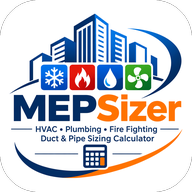
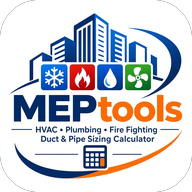
Add files via upload

diff --git a/index.html b/index.html
@@ -2,13 +2,13 @@
 <html lang="en">
 <head>
 <meta charset="utf-8">
-<title>MEP Sizer</title>
+<title>MEPtools</title>
 <meta name="viewport" content="width=device-width, initial-scale=1, viewport-fit=cover">
 <meta name="theme-color" content="#0E2A3A">
 <meta name="color-scheme" content="light dark">
 <meta name="mobile-web-app-capable" content="yes">
 <meta name="apple-mobile-web-app-capable" content="yes">
-<meta name="apple-mobile-web-app-title" content="MEP Sizer">
+<meta name="apple-mobile-web-app-title" content="MEPtools">
 <link rel="manifest" href="./manifest.json">
 <link rel="preload" as="font" type="font/woff2" href="./fonts/great-vibes-latin-400-normal.woff2" crossorigin>
 <link rel="preload" as="font" type="font/woff2" href="./fonts/outfit-latin-600-normal.woff2" crossorigin>
@@ -203,7 +203,7 @@ footer.ft{display:flex;justify-content:space-between;color:var(--ink2);font-size
 </script>
 <div class="wrap">
   <header class="top">
-    <h1>MEP Sizer</h1>
+    <h1>MEPtools</h1>
     <div class="menu">
       <button id="m-units" type="button" aria-label="Switch units"></button>
       <button id="m-clear" type="button">Clear</button>
@@ -234,7 +234,7 @@ footer.ft{display:flex;justify-content:space-between;color:var(--ink2);font-size
 
 <div class="overlay" id="about" role="dialog" aria-modal="true" aria-label="About">
   <div class="sheet">
-    <h2>About MEP Sizer</h2>
+    <h2>About MEPtools</h2>
     <p>Duct sizing calculator for everyday MEP work. Works offline once installed. Nothing you type leaves your device.</p>
     <ul>
       <li><b>Equal-friction / velocity sizing:</b> enter any two of flow rate, head loss, velocity and equivalent diameter.</li>
@@ -384,7 +384,7 @@ const UN = {
 };
 const FIELDS = ['flow', 'hf', 'v', 'd'];
 const LABEL = { flow: 'Flow rate', hf: 'Head loss', v: 'Velocity', d: 'Equivalent diameter' };
-const VERSION = 'v2026.11.06';
+const VERSION = 'v2026.11.08';
 
 /* ---------- state ---------- */
 const STORE_KEY = 'mepsizer.v1';
@@ -637,7 +637,7 @@ function update(editing) {
 function renderPrintHead() {
   const el = $('#printhead'); if (!el) return;
   const U = UN[S.units];
-  el.innerHTML = '<h1>MEP Sizer — Duct sizing (Basic)</h1><p>' + new Date().toLocaleString() + ' · ' + U.name + ' units · ' + fluid().label + '</p>';
+  el.innerHTML = '<h1>MEPtools — Duct sizing (Basic)</h1><p>' + new Date().toLocaleString() + ' · ' + U.name + ' units · ' + fluid().label + '</p>';
 }
 
 /* ---------- menu ---------- */

diff --git a/sw.js b/sw.js
@@ -1,4 +1,4 @@
-const CACHE = 'mepsizer-v2026.11.06';
+const CACHE = 'meptools-v2026.11.08';
 const OFFLINE_PAGE = './';
 // The page is required; the other files are best-effort so a missing icon can never stop the install.
 const EXTRA_PRECACHE = [
